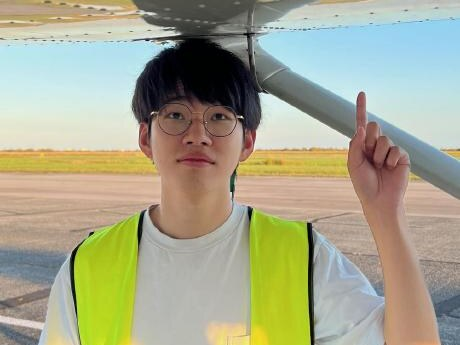
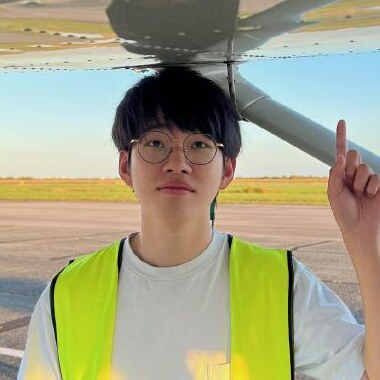
Make the hero photo round
Keep the photo-left, text-right layout but show the photo as a
circle with the teal ring, vertically centred against the text.

Claude-Session: https://claude.ai/code/session_019j4WUV2L3JYRotCC1URXrS

diff --git a/style.css b/style.css
@@ -86,8 +86,8 @@ img { max-width:100%; }
 /* Hero */
 .hero { position:relative; padding-block:clamp(56px, 10svh, 104px) clamp(48px, 9svh, 88px); overflow:hidden;
   background:radial-gradient(70% 55% at 50% 0%, color-mix(in srgb, var(--teal) 16%, transparent), transparent 70%), var(--page); }
-.hero-inner { max-width:calc(var(--content-width) + 32px); margin:0 auto; display:grid; grid-template-columns:minmax(0, 5fr) minmax(0, 7fr); gap:48px; align-items:start; }
-.hero-photo { display:block; width:100%; height:auto; aspect-ratio:4 / 3; object-fit:cover; border-radius:12px; border:1px solid var(--line); box-shadow:0 12px 32px color-mix(in srgb, var(--deep) 16%, transparent); }
+.hero-inner { max-width:calc(var(--content-width) + 32px); margin:0 auto; display:grid; grid-template-columns:auto minmax(0, 1fr); gap:56px; align-items:center; }
+.hero-photo { display:block; width:clamp(200px, 24vw, 260px); height:auto; aspect-ratio:1; object-fit:cover; border-radius:999px; border:4px solid var(--page); box-shadow:0 0 0 2px var(--teal), 0 14px 36px color-mix(in srgb, var(--deep) 18%, transparent); }
 .hero h1 { font-family:var(--font-serif); font-size:clamp(36px, 4.6vw, 54px); line-height:1.08; font-weight:400; letter-spacing:-0.02em; margin:0 0 10px; text-wrap:balance; }
 .hero-role { font-size:21px; line-height:30px; font-weight:600; color:var(--link); margin:0; }
 .hero .buttons { justify-content:flex-start; margin:24px 0 0; }
@@ -106,7 +106,7 @@ img { max-width:100%; }
 .btn[aria-disabled="true"] { opacity:0.5; cursor:default; }
 .btn[aria-disabled="true"]:hover { background:var(--button); }
 .btn[aria-disabled="true"]:active { transform:none; }
-@media (max-width:760px) { .hero-inner { grid-template-columns:minmax(0,1fr); gap:28px; } }
+@media (max-width:760px) { .hero-inner { grid-template-columns:minmax(0,1fr); gap:28px; } .hero-photo { width:160px; } }
 @media (max-width:640px) { .hero { padding-top:32px; } .authors { font-size:17px; line-height:27px; } }
 
 /* Intro: staggered fade-up with a light blur on load */

diff --git a/index.html b/index.html
@@ -39,7 +39,7 @@
 
 <header class="hero" id="top">
   <div class="hero-inner">
-    <img class="hero-photo intro" style="--d:0" src="images/profile.jpg" alt="Yang-Che Tseng" width="460" height="345" fetchpriority="high">
+    <img class="hero-photo intro" style="--d:0" src="images/profile.jpg" alt="Yang-Che Tseng" width="380" height="380" fetchpriority="high">
     <div class="hero-text">
       <h1 class="intro" style="--d:1">Yang-Che Tseng <span class="alt">(Jeff)</span></h1>
       <p class="hero-role intro" style="--d:2">ML infrastructure engineer</p>

diff --git a/README.md b/README.md
@@ -4,6 +4,6 @@ Personal portfolio, served by GitHub Pages at the domain in `CNAME`. No build st
 
 - Theme: the Aligned NVS design system from `aligned-sv-nvs-site` (tokens, serif display + Noto Sans text, teal fill, pill buttons, light/auto/dark switch, scroll reveals, compare slider). Colors live as CSS variables at the top of `style.css`; keep both themes at 4.5:1 text contrast.
 - Layout: one continuous page with native scrolling (no pinning or snapping): hero (photo on the left; name, role, links and intro on the right; stacked on phones), about, experience timeline (industry first), research with the featured paper and publication cards, contact. Elements fade in as they enter the viewport; interactive behaviour stays inside components (the compare slider on the featured paper). Content lives in `index.html`; Update it together with `Jeff_CV.pdf`.
-- `images/profile.jpg` is the hero photo (460×345, 4:3 crop of the GitHub profile photo, which is only 460px square; swap in a larger original for a sharper picture).
+- `images/profile.jpg` is the round hero photo (380×380 crop of the GitHub profile photo, shown at up to 260px).
 - `images/aligned-nvs/` holds the teaser error maps used by the featured paper's slider.
 - `images/papers/` holds the 960×480 cover stills for the publication cards (3DGS-MCMC from its project-page video, PointNeRF++ from its project-page teaser, Orbeez-SLAM from `extrinsic.png` in its code repo). A card shows its image when its cover has class `has-img`; without one it falls back to the plain teal slab.
